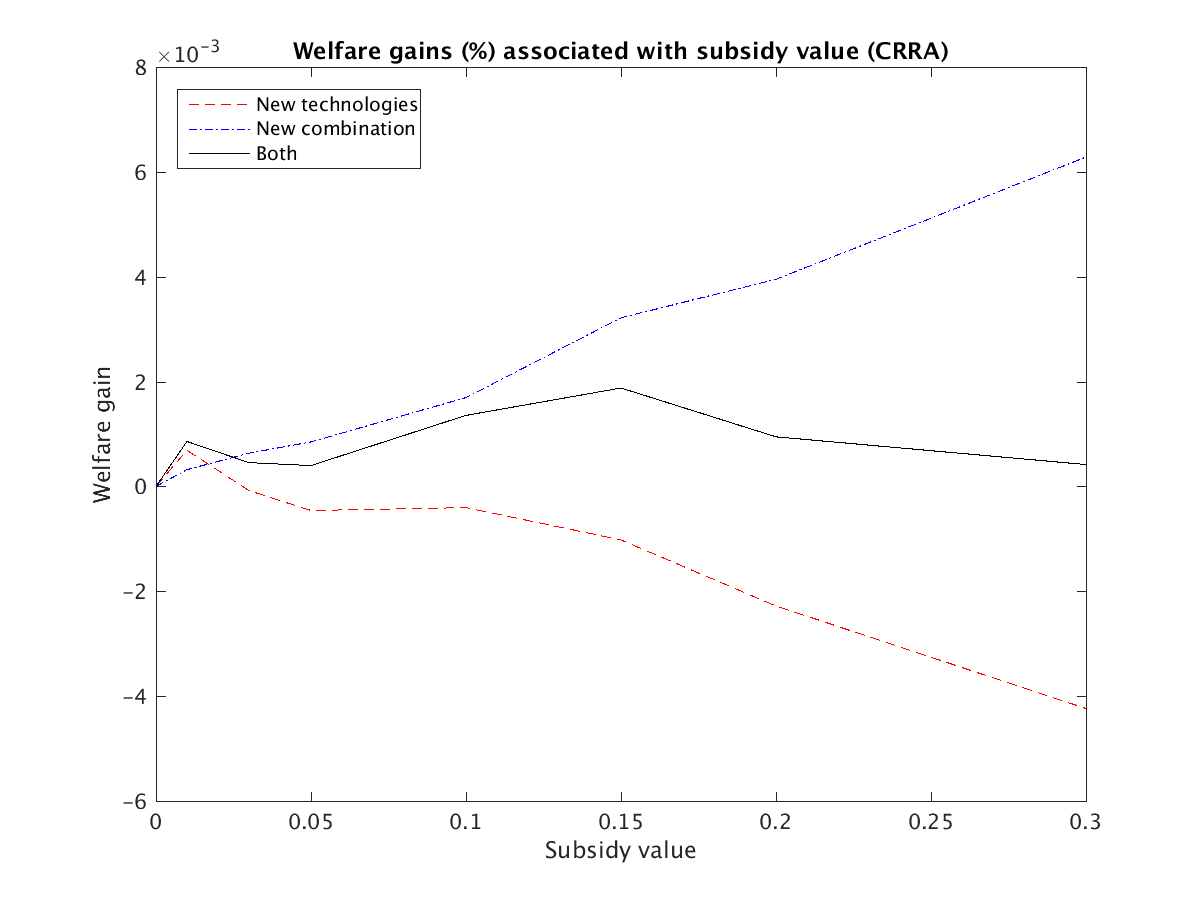
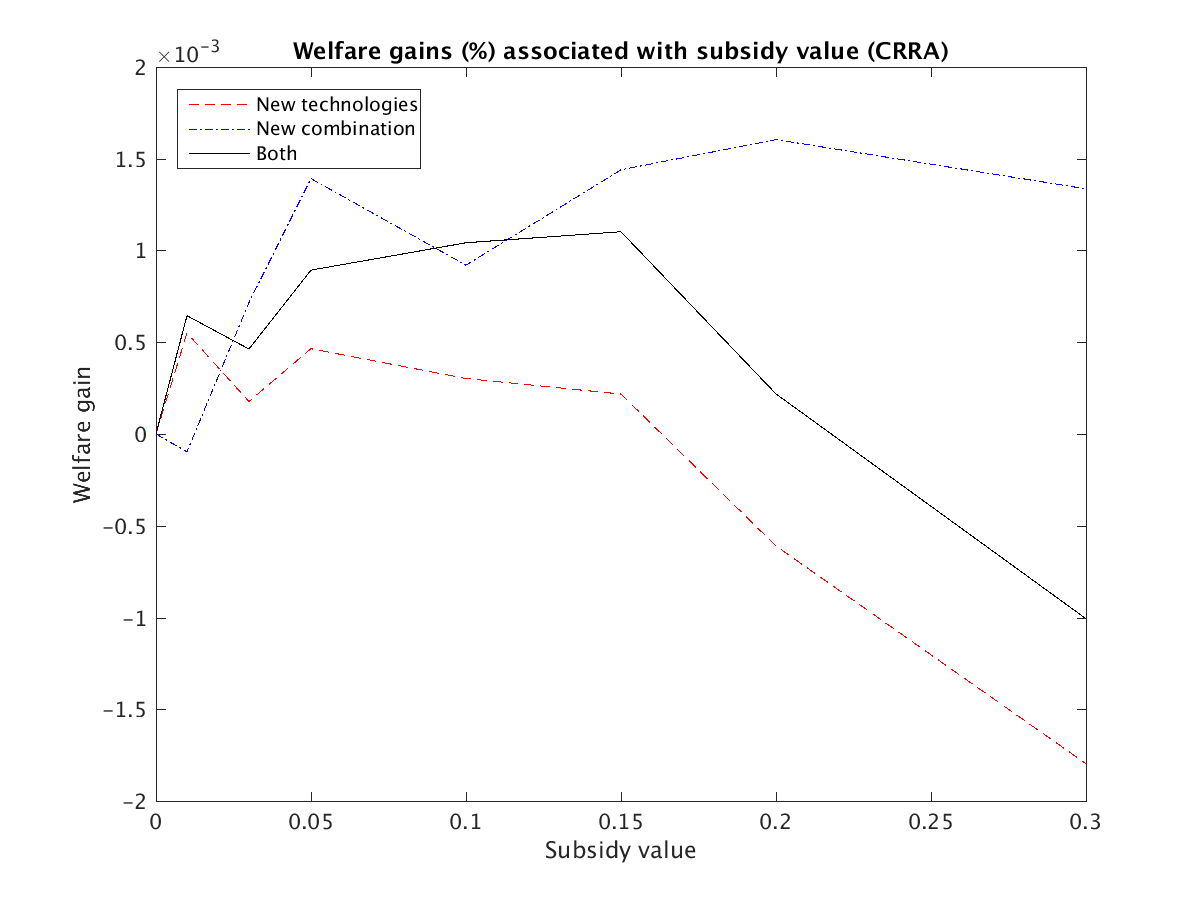
figures with correct parameters

diff --git a/simulations/welfare_counterfactuals/optimal_subsidy_zeta.m b/simulations/welfare_counterfactuals/optimal_subsidy_zeta.m
@@ -41,20 +41,20 @@ Welfare_plain = result_plain.Welfare;
 Welfare_log_plain = result_plain.Welfare_log;
 
 %% Run simulation with subsidy
-subsidy_vals = [0, 0.01, 0.03, 0.05, 0.1, 0.15, 0.2, 0.3];
+subsidy_vals = [0, linspace(.05,1,20)];
 subs_len = length(subsidy_vals);
 
-% new technologies
-subsidy_substech = [subsidy_vals', zeros(subs_len,1)]; % ; zeros(subs_len,1), subsidy_vals'];
-Welfare_substech = zeros(subs_len,1);
-Welfare_log_substech = zeros(subs_len,1);
-
-for i = 1:subs_len
-	result_subs = simulate_path_zeta(Tmax, T_subs, params, subsidy_substech(i,:), seed);
-
-	Welfare_substech(i) = result_subs.Welfare;
-	Welfare_log_substech(i) = result_subs.Welfare_log;
-end
+% % new technologies
+% subsidy_substech = [subsidy_vals', zeros(subs_len,1)]; % ; zeros(subs_len,1), subsidy_vals'];
+% Welfare_substech = zeros(subs_len,1);
+% Welfare_log_substech = zeros(subs_len,1);
+% 
+% for i = 1:subs_len
+% 	result_subs = simulate_path_zeta(Tmax, T_subs, params, subsidy_substech(i,:), seed);
+% 
+% 	Welfare_substech(i) = result_subs.Welfare;
+% 	Welfare_log_substech(i) = result_subs.Welfare_log;
+% end
 
 % new combinations
 subsidy_subscomb = [zeros(subs_len,1), subsidy_vals']; % ; zeros(subs_len,1), subsidy_vals'];
@@ -68,71 +68,77 @@ for i = 1:subs_len
 	Welfare_log_subscomb(i) = result_subs.Welfare_log;
 end
 
-% both
-subsidy_subsboth = [subsidy_vals', subsidy_vals']; % ; zeros(subs_len,1), subsidy_vals'];
-Welfare_subsboth = zeros(subs_len,1);
-Welfare_log_subsboth = zeros(subs_len,1);
-
-for i = 1:subs_len
-	result_subs = simulate_path_zeta(Tmax, T_subs, params, subsidy_subsboth(i,:), seed);
-
-	Welfare_subsboth(i) = result_subs.Welfare;
-	Welfare_log_subsboth(i) = result_subs.Welfare_log;
-end
-
-periods = 1836 + linspace(1,Tmax,Tmax);
-periods_subs = 1836 + T_subs + linspace(1,Tmax-T_subs,Tmax-T_subs)';
-
-WChangeNT = sign(Welfare_substech).*(Welfare_substech - Welfare_plain)/Welfare_plain;
-WlogChangeNT = sign(Welfare_log_substech).*(Welfare_log_substech - Welfare_log_plain)/Welfare_log_plain;
+% % both
+% subsidy_subsboth = [subsidy_vals', subsidy_vals']; % ; zeros(subs_len,1), subsidy_vals'];
+% Welfare_subsboth = zeros(subs_len,1);
+% Welfare_log_subsboth = zeros(subs_len,1);
+% 
+% for i = 1:subs_len
+% 	result_subs = simulate_path_zeta(Tmax, T_subs, params, subsidy_subsboth(i,:), seed);
+% 
+% 	Welfare_subsboth(i) = result_subs.Welfare;
+% 	Welfare_log_subsboth(i) = result_subs.Welfare_log;
+% end
+% 
+% periods = 1836 + linspace(1,Tmax,Tmax);
+% periods_subs = 1836 + T_subs + linspace(1,Tmax-T_subs,Tmax-T_subs)';
+% 
+% WChangeNT = sign(Welfare_substech).*(Welfare_substech - Welfare_plain)/Welfare_plain;
+% WlogChangeNT = sign(Welfare_log_substech).*(Welfare_log_substech - Welfare_log_plain)/Welfare_log_plain;
 
 WChangeNC = sign(Welfare_subscomb).*(Welfare_subscomb - Welfare_plain)/Welfare_plain;
 WlogChangeNC = sign(Welfare_log_subscomb).*(Welfare_log_subscomb - Welfare_log_plain)/Welfare_log_plain;
 
-WChangeTC = sign(Welfare_subsboth).*(Welfare_subsboth - Welfare_plain)/Welfare_plain;
-WlogChangeTC = sign(Welfare_log_subsboth).*(Welfare_log_subsboth - Welfare_log_plain)/Welfare_log_plain;
-
-welfare_gains_pp = figure(1);
-plot(subsidy_vals, WChangeNT, '--r', subsidy_vals, WChangeNC, '-.b', subsidy_vals, WChangeTC, 'k')
-legend('New technologies', 'New combination', 'Both', 'location', 'Northwest')
-title('Welfare gains (%) associated with subsidy value (CRRA)')
-xlabel('Subsidy value')
-ylabel('Welfare gain')
-saveas(gcf, 'tex_files/figures/welfare_pp_phi_3ways.png')
-
-welfare_log_gains_pp = figure(2);
-plot(subsidy_vals, WlogChangeNT, '--r', subsidy_vals, WlogChangeNC, '-.b', subsidy_vals, WlogChangeTC, 'k')
-legend('New technologies', 'New combination', 'Both', 'location', 'Northwest')
-title('Welfare gains (%) associated with subsidy value (Log)')
-xlabel('Subsidy value')
-ylabel('Welfare gain')
-saveas(gcf, 'tex_files/figures/welfare_log_pp_phi_3ways.png')
-
-welfare_gains_pp_NT = figure(3);
-plot(subsidy_vals, WChangeNT, 'k')
-%legend('New technologies', 'New combination', 'Both', 'location', 'Northwest')
-title('Welfare gains (%) associated with subsidy value (CRRA)')
-xlabel('Subsidy value')
-ylabel('Welfare gain')
-saveas(gcf, 'tex_files/figures/welfare_pp_NT.png')
-
-welfare_log_gains_pp_NT = figure(4);
-plot(subsidy_vals, WlogChangeNT, 'k')
-%legend('New technologies', 'New combination', 'Both', 'location', 'Northwest')
-title('Welfare gains (%) associated with subsidy value (Log)')
-xlabel('Subsidy value')
-ylabel('Welfare gain')
-saveas(gcf, 'tex_files/figures/welfare_log_pp_log_NT.png')
-
+% WChangeTC = sign(Welfare_subsboth).*(Welfare_subsboth - Welfare_plain)/Welfare_plain;
+% WlogChangeTC = sign(Welfare_log_subsboth).*(Welfare_log_subsboth - Welfare_log_plain)/Welfare_log_plain;
+% 
 % welfare_gains_pp = figure(1);
-% plot(subsidy_vals, WChangeNC)
+% plot(subsidy_vals, WChangeNT, '--r', subsidy_vals, WChangeNC, '-.b', subsidy_vals, WChangeTC, 'k')
+% legend('New technologies', 'New combination', 'Both', 'location', 'Northwest')
+% title('Welfare gains (%) associated with subsidy value (CRRA)')
+% xlabel('Subsidy value')
+% ylabel('Welfare gain')
+% saveas(gcf, 'tex_files/figures/welfare_pp_phi_3ways.png')
+% 
+% welfare_log_gains_pp = figure(2);
+% plot(subsidy_vals, WlogChangeNT, '--r', subsidy_vals, WlogChangeNC, '-.b', subsidy_vals, WlogChangeTC, 'k')
+% legend('New technologies', 'New combination', 'Both', 'location', 'Northwest')
+% title('Welfare gains (%) associated with subsidy value (Log)')
+% xlabel('Subsidy value')
+% ylabel('Welfare gain')
+% saveas(gcf, 'tex_files/figures/welfare_log_pp_phi_3ways.png')
+% 
+% welfare_gains_pp_NT = figure(3);
+% plot(subsidy_vals, WChangeNT, 'k')
 % %legend('New technologies', 'New combination', 'Both', 'location', 'Northwest')
 % title('Welfare gains (%) associated with subsidy value (CRRA)')
 % xlabel('Subsidy value')
 % ylabel('Welfare gain')
-% saveas(gcf, 'tex_files/figures/welfare_pp_phi_NC.png')
+% saveas(gcf, 'tex_files/figures/welfare_pp_NT.png')
+% 
+% welfare_log_gains_pp_NT = figure(4);
+% plot(subsidy_vals, WlogChangeNT, 'k')
+% %legend('New technologies', 'New combination', 'Both', 'location', 'Northwest')
+% title('Welfare gains (%) associated with subsidy value (Log)')
+% xlabel('Subsidy value')
+% ylabel('Welfare gain')
+% saveas(gcf, 'tex_files/figures/welfare_log_pp_log_NT.png')
 
+welfare_gains_pp = figure(1);
+plot(subsidy_vals, WChangeNC)
+%legend('New technologies', 'New combination', 'Both', 'location', 'Northwest')
+title('Welfare gains (%) associated with subsidy value (CRRA)')
+xlabel('Subsidy value')
+ylabel('Welfare gain')
+saveas(gcf, 'tex_files/figures/welfare_pp_phi_NC.png')
 
+welfare_log_gains_pp = figure(1);
+plot(subsidy_vals, WlogChangeNC)
+%legend('New technologies', 'New combination', 'Both', 'location', 'Northwest')
+title('Welfare gains (%) associated with subsidy value (Log)')
+xlabel('Subsidy value')
+ylabel('Welfare gain')
+saveas(gcf, 'tex_files/figures/welfare_log_pp_phi_NC.png')
 
 
 
